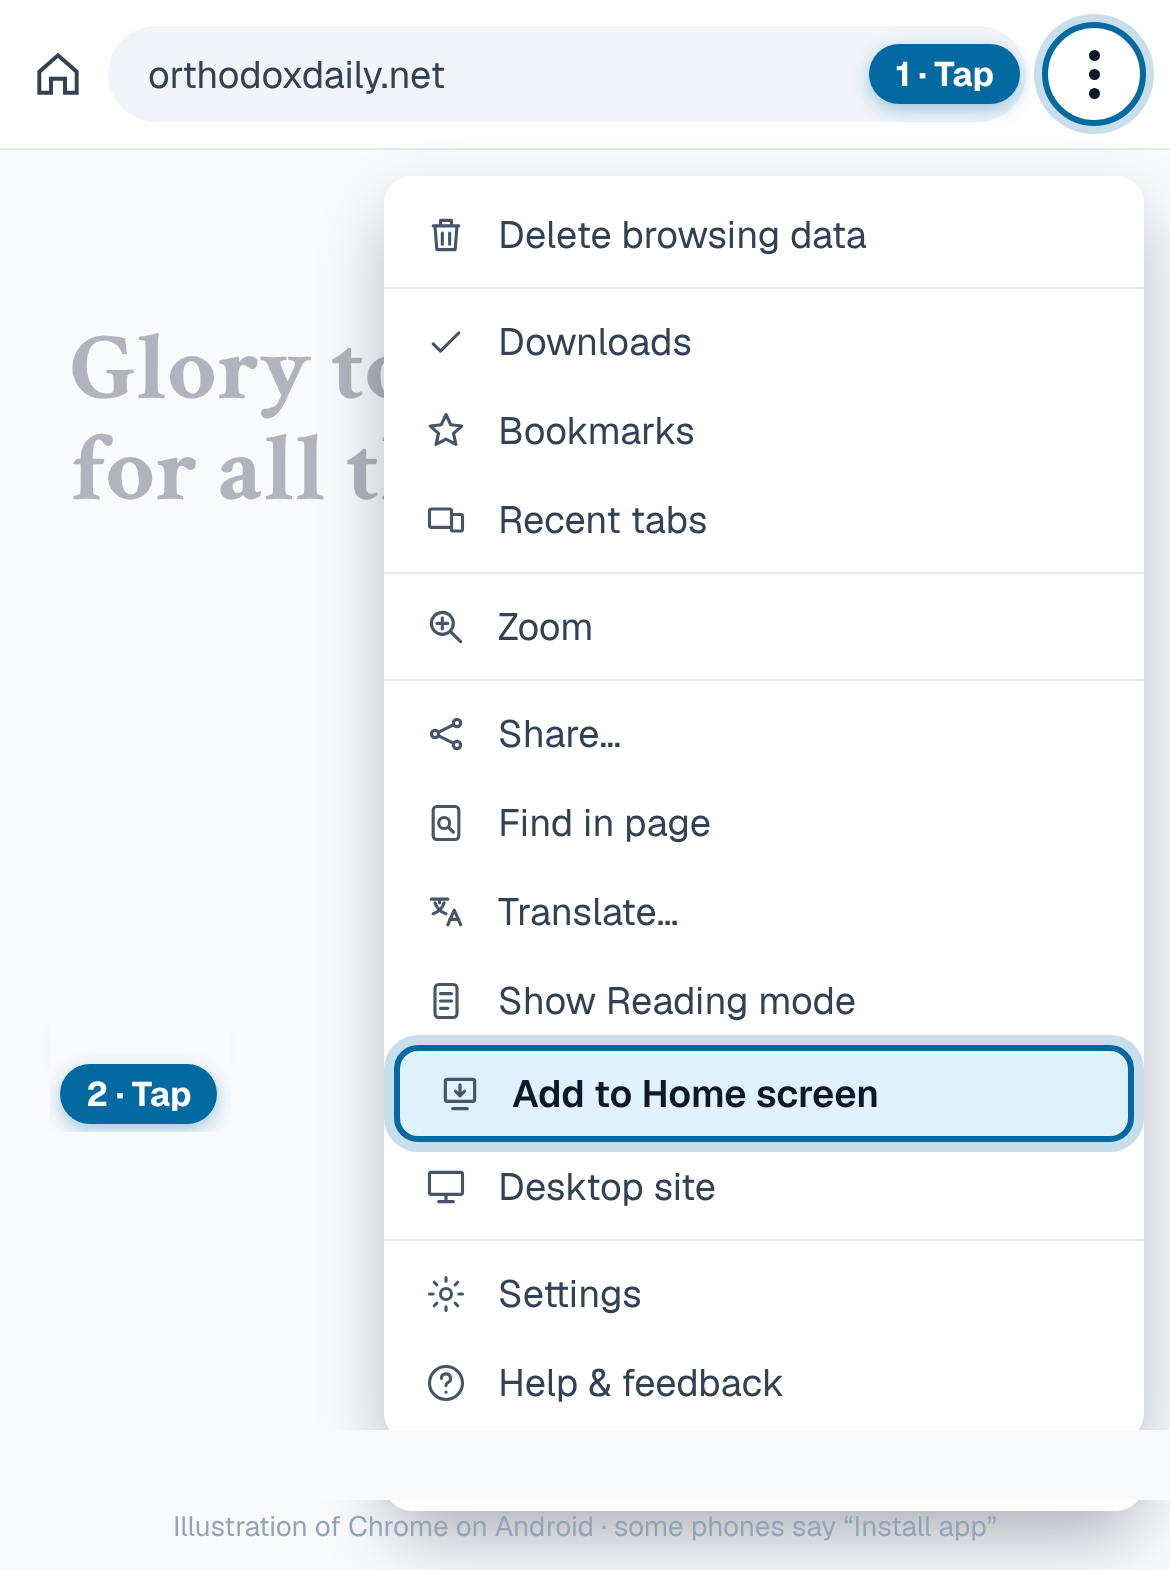
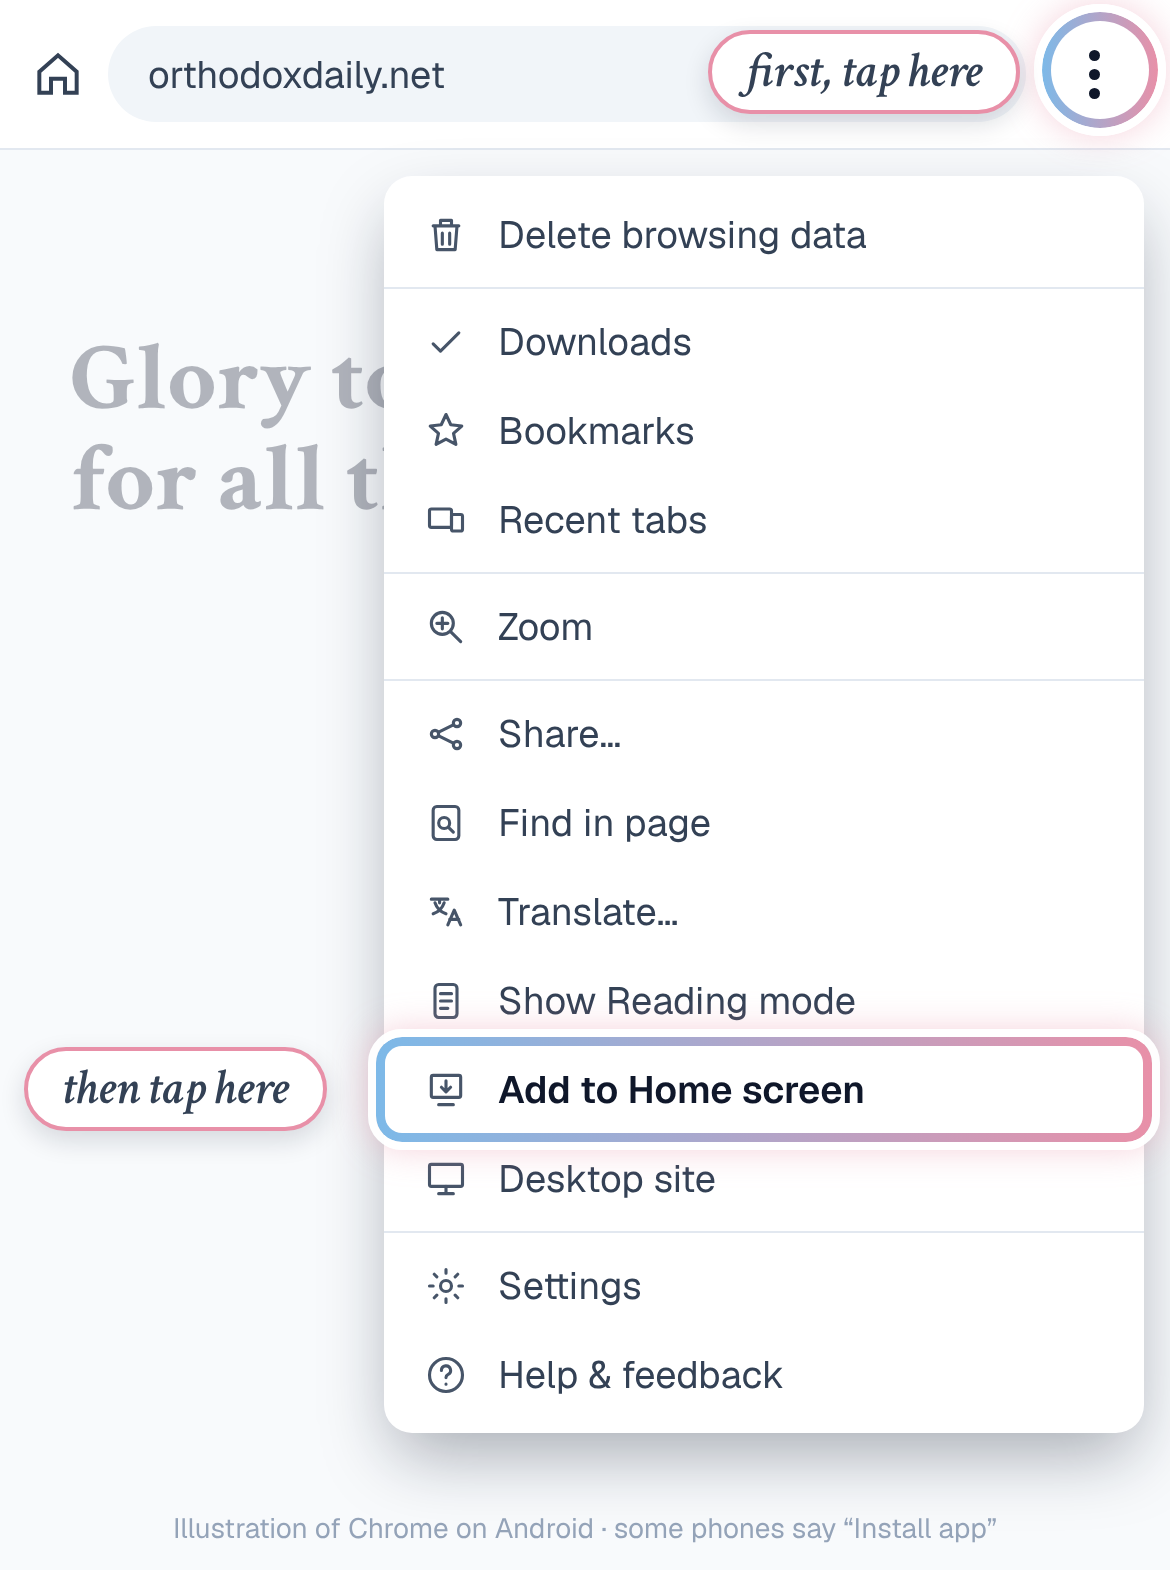
Tap highlights in the Welcome post's style: sky-to-rose ring, centred italic 'tap here'
Also: whole month in view on calendar shots, labels clear of the next line on wide rows,
results zoomed in (fasting legend, feast insight, confession, psalm), iPhone and Android
pictures redone in the same style.

Claude-Session: https://claude.ai/code/session_01JbK7mNm9mESDZmeN9gncY1

diff --git a/scripts/site_shots.py b/scripts/site_shots.py
@@ -28,35 +28,45 @@ BASE = "https://" + CONFIG["site_url"]
 
 RING_JS = """
 ([x, y, w, h, label]) => {
-  const pad = 7, small = w < 70 && h < 70;
+  // The Welcome post's sky-to-rose line as the ring, and an italic Crimson Text label.
+  const pad = 7, small = w < 70 && h < 70, radius = small ? '999px' : '16px';
+  const L = x - pad, T = y - pad, W = w + 2 * pad, H = h + 2 * pad;
+  const halo = document.createElement('div');
+  Object.assign(halo.style, {
+    position: 'fixed', left: (L - 3) + 'px', top: (T - 3) + 'px', width: (W + 6) + 'px', height: (H + 6) + 'px',
+    borderRadius: small ? '999px' : '19px', border: '3px solid rgba(255,255,255,0.9)', boxSizing: 'border-box',
+    boxShadow: '0 0 14px rgba(232,144,168,0.35)', zIndex: 2147483646, pointerEvents: 'none'
+  });
   const ring = document.createElement('div');
-  ring.className = 'od-ring';
   Object.assign(ring.style, {
-    position: 'fixed', left: (x - pad) + 'px', top: (y - pad) + 'px',
-    width: (w + 2 * pad) + 'px', height: (h + 2 * pad) + 'px',
-    border: '4px solid #0369A1', borderRadius: small ? '999px' : '16px', boxSizing: 'border-box',
-    boxShadow: '0 0 0 3px rgba(255,255,255,0.95), 0 0 0 9px rgba(3,105,161,0.28)',
+    position: 'fixed', left: L + 'px', top: T + 'px', width: W + 'px', height: H + 'px',
+    borderRadius: radius, padding: '3.5px', boxSizing: 'border-box',
+    background: 'linear-gradient(90deg, #7DB9E8, #E890A8)',
+    WebkitMask: 'linear-gradient(#000 0 0) content-box, linear-gradient(#000 0 0)',
+    WebkitMaskComposite: 'xor', maskComposite: 'exclude',
     zIndex: 2147483647, pointerEvents: 'none'
   });
+  document.body.appendChild(halo);
   document.body.appendChild(ring);
   if (label) {
     const tag = document.createElement('div');
-    tag.className = 'od-ring';
     tag.textContent = label;
-    // Small buttons: label underneath. Wide rows: label sits on the ring's top-right corner,
-    // so it never covers the next line.
-    const wide = w > 160;
-    const below = y + h + pad + 34 < window.innerHeight;
-    const left = wide ? Math.min(x + w - 70, window.innerWidth - 90) : Math.max(6, Math.min(x + w / 2 - 40, window.innerWidth - 86));
-    const top = wide ? y - pad - 16 : (below ? y + h + pad + 8 : y - pad - 34);
     Object.assign(tag.style, {
-      position: 'fixed', left: left + 'px',
-      top: top + 'px', minWidth: '80px', textAlign: 'center',
-      padding: '4px 10px', borderRadius: '999px', background: '#0369A1', color: '#FFFFFF',
-      font: '700 14px/1.3 system-ui, -apple-system, sans-serif', letterSpacing: '0.02em',
-      boxShadow: '0 4px 12px rgba(3,105,161,0.35)', zIndex: 2147483647, pointerEvents: 'none'
+      position: 'fixed', display: 'flex', alignItems: 'center', justifyContent: 'center',
+      height: '28px', padding: '0 14px', boxSizing: 'border-box', whiteSpace: 'nowrap',
+      borderRadius: '999px', background: '#FFFFFF', border: '1.5px solid #E890A8', color: '#334155',
+      font: 'italic 600 17px/1 "Crimson Text", Georgia, serif', textAlign: 'center',
+      boxShadow: '0 4px 12px rgba(15,23,42,0.12)', zIndex: 2147483647, pointerEvents: 'none', visibility: 'hidden'
     });
     document.body.appendChild(tag);
+    const tw = tag.offsetWidth;
+    // Small buttons: label centred underneath. Wide rows: on the ring's top-right corner, clear of the next line.
+    const wide = w > 160;
+    const below = y + h + pad + 36 < window.innerHeight;
+    const left = wide ? Math.min(L + W - tw - 12, window.innerWidth - tw - 6)
+                      : Math.max(6, Math.min(x + w / 2 - tw / 2, window.innerWidth - tw - 6));
+    const top = wide ? T - 14 : (below ? T + H + 6 : T - 34);
+    Object.assign(tag.style, {left: left + 'px', top: top + 'px', visibility: 'visible'});
   }
 }
 """
@@ -104,7 +114,7 @@ def run_recipe(browser, shot, path):
                 el = pg.locator(step["highlight"]).first
                 el.wait_for(state="visible", timeout=step.get("timeout", 15000))
                 box = el.bounding_box()
-                pg.evaluate(RING_JS, [box["x"], box["y"], box["width"], box["height"], step.get("label", "Tap")])
+                pg.evaluate(RING_JS, [box["x"], box["y"], box["width"], box["height"], step.get("label", "tap here")])
             elif "try_each" in step:
                 # Open each match in turn until one shows what we want (e.g. a saint with an icon);
                 # if none does, leave the first one open.
